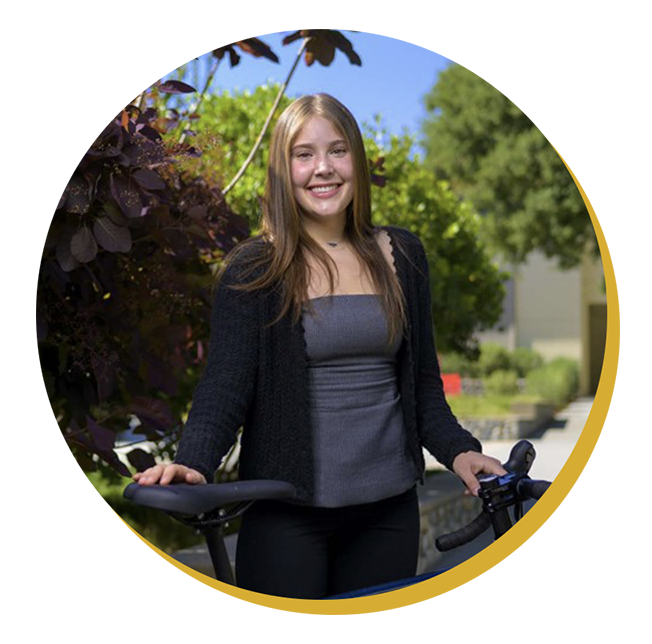
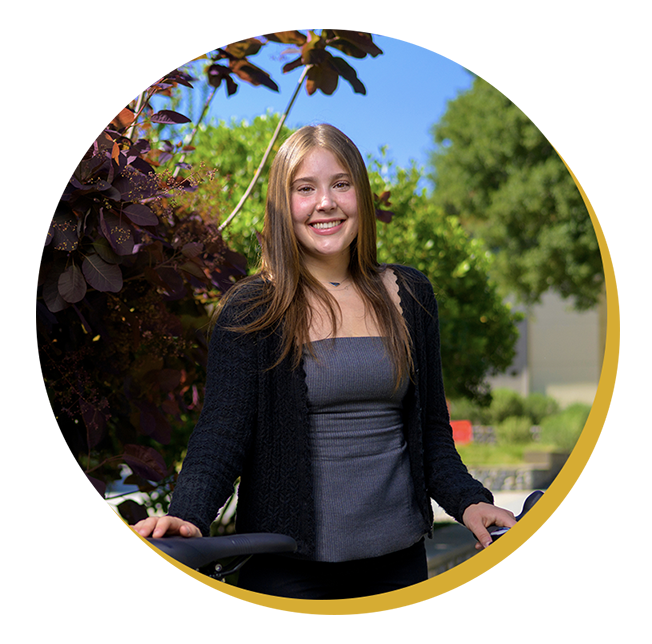
Commit

diff --git a/src/components/decades/2010s/Event6-weatherford.jsx b/src/components/decades/2010s/Event6-weatherford.jsx
@@ -5,10 +5,12 @@ const Event6 = () => {
   return (
     <div className="event-container small">
       <div className="content info-panel">
-        <img src={mary} />
-        <p className="caption">
-          <em>Photo by Antony Hoffman courtesy of Gagosian.</em>
-        </p>
+        <div>
+          <img src={mary} />
+          <p className="caption">
+            <em>Photo by Antony Hoffman courtesy of Gagosian.</em>
+          </p>
+        </div>
         <h1 className="date">September 16</h1>
         <h1 className="year-sm maroon-txt">2014</h1>
         <h2>Art and Life</h2>

diff --git a/src/components/decades/2010s/Event10.jsx b/src/components/decades/2010s/Event10.jsx
@@ -5,8 +5,11 @@ const Event11 = () => {
     <div className="event-container panel-maroon">
       <div className="content endcap">
         <div className="col-4">
-          <h2>Global greatness</h2>
-          <p>xxx</p>
+          <p className="lead-text">
+            As CMC’s co-education journey neared the halfway point of its fifth
+            decade, alumni, students, faculty, and the CMC community were
+            positioned for success across a number of metrics.
+          </p>
         </div>
       </div>
     </div>

diff --git a/src/components/decades/2020s/Event1.jsx b/src/components/decades/2020s/Event1.jsx
@@ -8,7 +8,6 @@ const Event1 = () => {
           <div>
             <h1 className="eyebrow">A moment in history</h1>
             <h1 className="yellow-txt">2020s</h1>
-            <h2>XXX</h2>
             <p>
               After decades of constant global expansion, the first few months
               of the 2020s shrank the world back to four walls and a

diff --git a/src/components/decades/2020s/Event9-rhodes02.jsx b/src/components/decades/2020s/Event9-rhodes02.jsx
@@ -5,7 +5,7 @@ const Event9 = () => {
   return (
     <div className="event-container panel-gray">
       <div className="content">
-        <div className="col-2">
+        <div className="col-3">
           <h1 className="date">November</h1>
           <h1 className="year-sm">2023</h1>
           <h2>“Rhodes” to Success</h2>

diff --git a/src/components/decades/2020s/Event12-ella.jsx b/src/components/decades/2020s/Event12-ella.jsx
@@ -1,5 +1,5 @@
 import "./style-2020.css";
-import ella from "../../../assets/2020-profile-ella-brissett.jpg";
+import ella from "../../../assets/2020-profile-ella-brissett_alt.jpg";
 
 const Event12 = () => {
   return (
